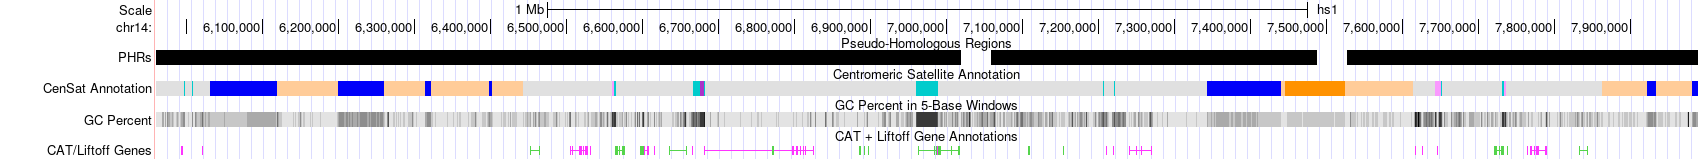
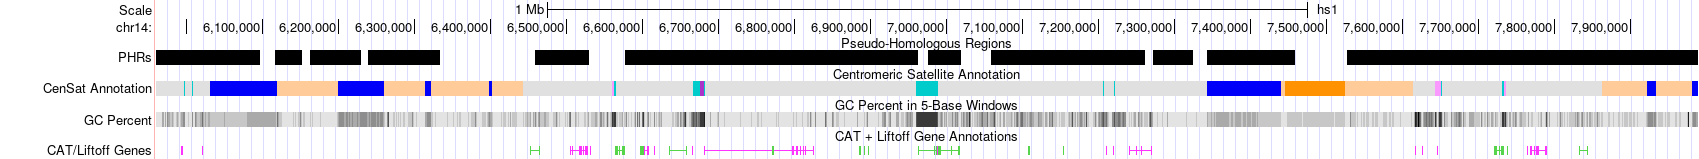
PHRs -d 10k

diff --git a/workflows/3_EntropyAndConcordance.md b/workflows/3_EntropyAndConcordance.md
@@ -174,8 +174,8 @@ eid_str=$(echo $eid | sed 's/\.//g')
 path_entropy_match_order_tsv=/lizardfs/guarracino/chromosome_communities/untangle/grounded/entropy/$prefix.untangle.chm13#chrACRO.e$e.m$m.grounded.pq_touching.reliable.entropy_match_order.eid${eid_str}.n${n}.tsv
       
 cat $path_entropy_match_order_tsv | sed '1d' | awk '$4 > 0 && $5 > 0' | \
-  bedtools merge -i - -d 30000 -c 4,5 -o mean | \
-  awk '$3 - $2 > 30000' | sed 's/chm13#//' > chrACRO_6-Dec-22_PHRs.bed # Supplementary Table
+  bedtools merge -i - -d 10000 -c 4,5 -o mean | \
+  awk '$3 - $2 > 30000' | sed 's/chm13#//' > chrACRO_29-Jul-22_PHRs.bed # Supplementary Table
 ```
 
 Plots:
@@ -276,7 +276,7 @@ eid_str=$(echo $eid | sed 's/\.//g')
 path_entropy_match_order_tsv=/lizardfs/guarracino/chromosome_communities/untangle_sex/grounded/entropy/$prefix.untangle.chm13#chrSEX.e$e.m$m.grounded.pq_touching.reliable.entropy_match_order.eid${eid_str}.n${n}.tsv
 
 cat $path_entropy_match_order_tsv | sed '1d' | awk '$4 > 0 && $5 > 0' | \
-  bedtools merge -i - -d 30000 -c 4,5 -o mean | \
+  bedtools merge -i - -d 10000 -c 4,5 -o mean | \
   awk '$3 - $2 > 30000' | sed 's/chm13#//' > chrSEX_6-Dec-22_PHRs.bed # Supplementary Table
 ```
 
